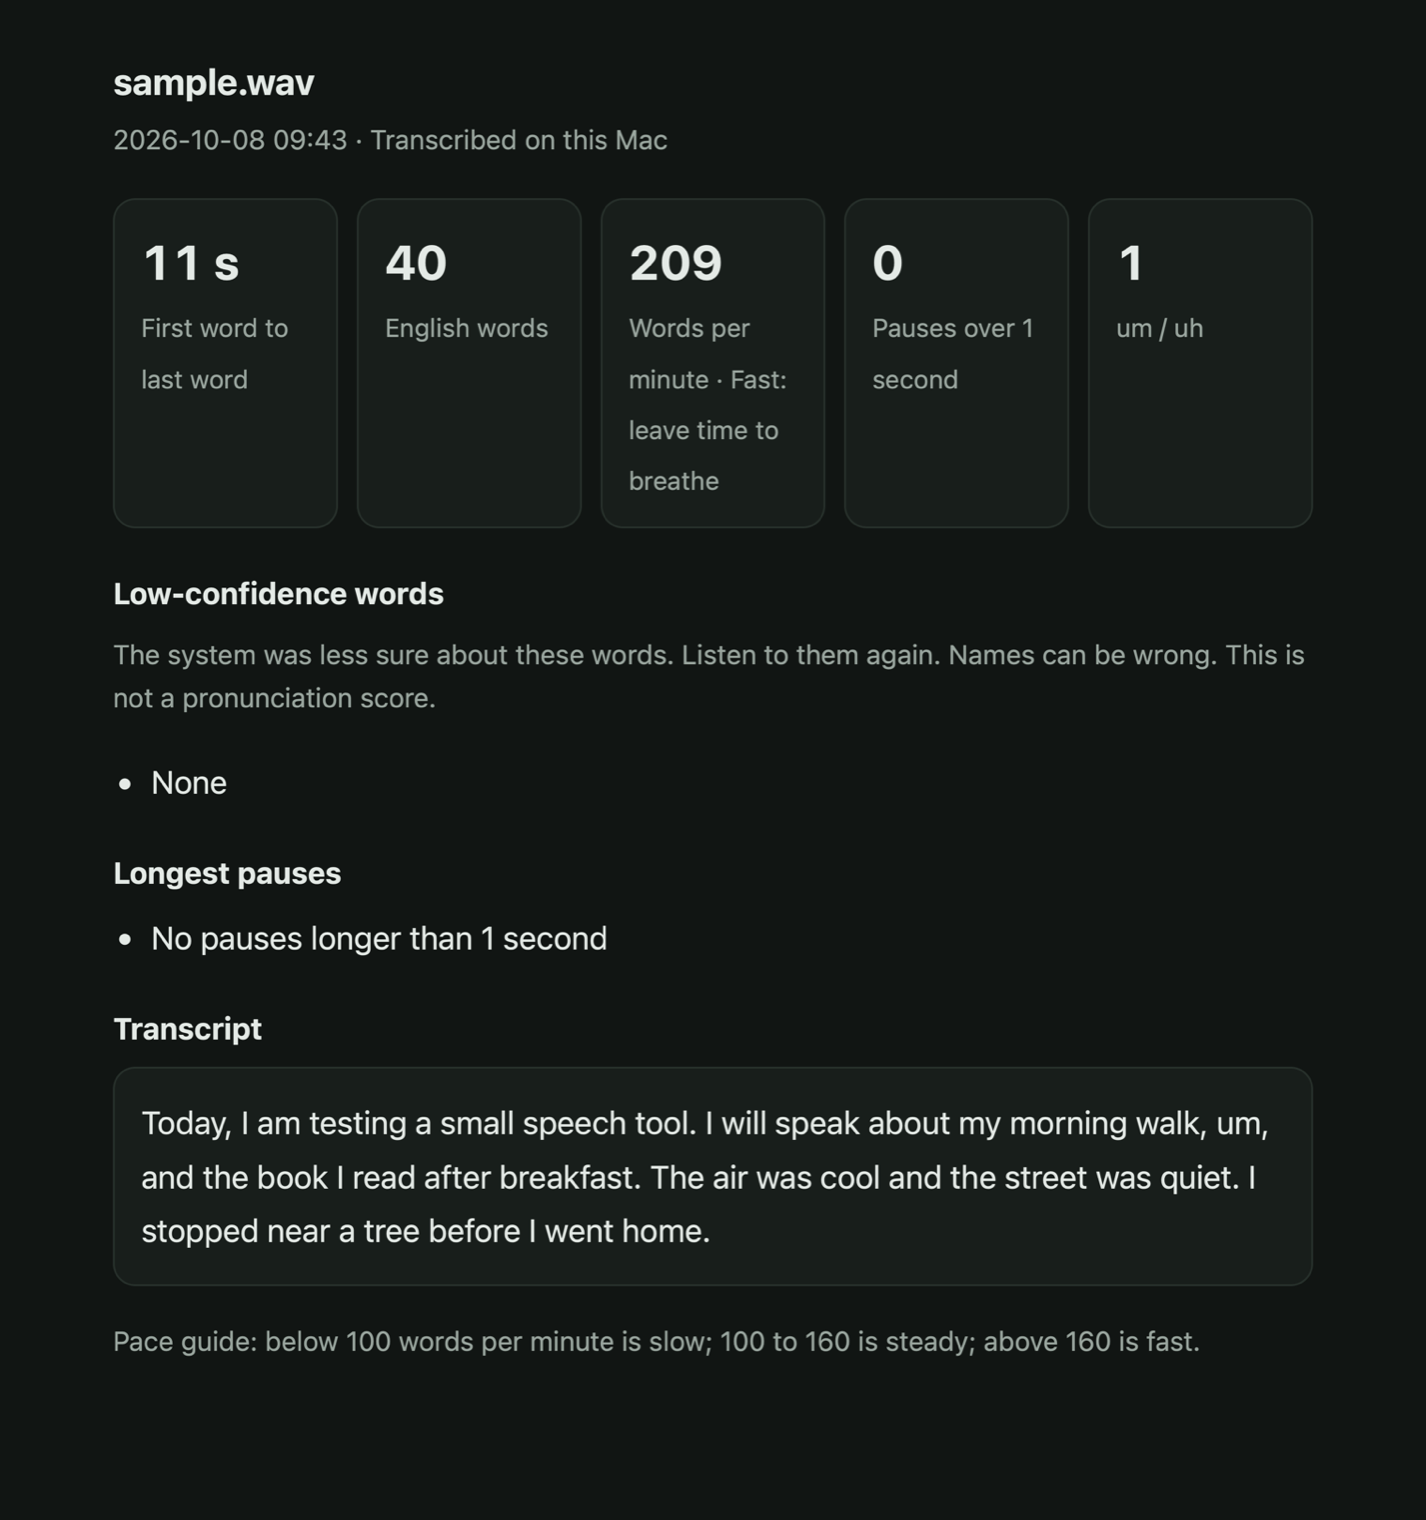
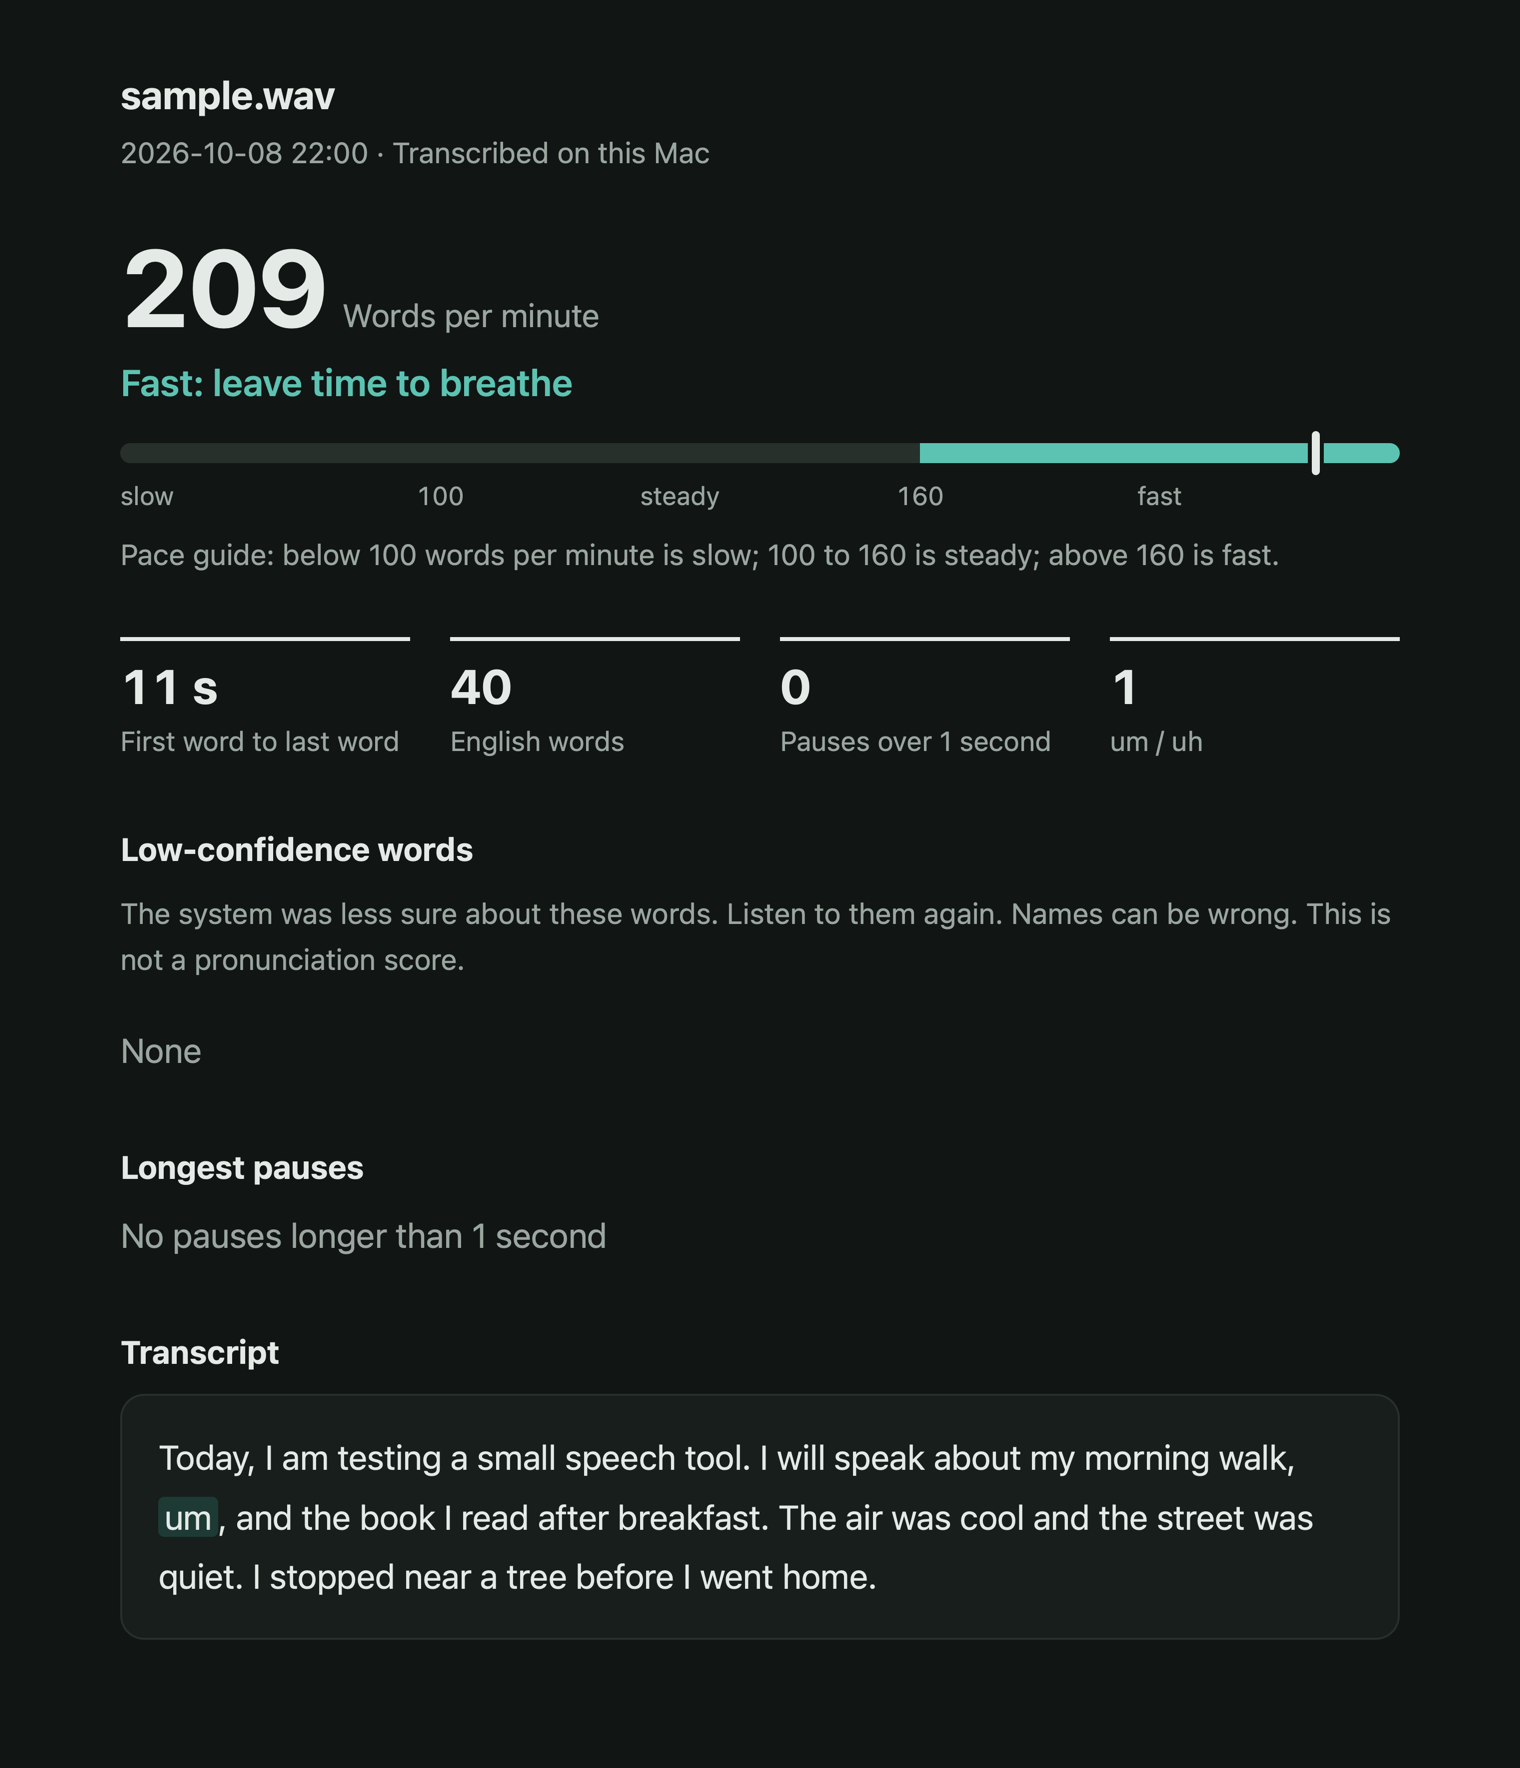
Report page: pace leads with a scale, quieter stats, marked fillers
Words per minute and the pace verdict become the focal point with a
slow/steady/fast scale; the other four numbers sit in a ruled row instead
of identical cards; empty lists read as plain text; um/uh are marked in
the transcript. Screenshots re-rendered from the smoke-test sample.

diff --git a/speakfb.py b/speakfb.py
@@ -61,30 +61,54 @@ def mmss(t):
 
 def report(src, a):
     name = os.path.basename(src)
-    pace = ("Fast: leave time to breathe" if a["wpm"] > 160 else "Steady pace" if a["wpm"] >= 100 else "Slow: try shorter pauses")
-    low = "".join("<li><b>%s</b> <span>%s, confidence %.2f</span></li>" % (html.escape(bare(r[3])), mmss(r[0]), r[2]) for r in a["low"][:12]) or "<li>None</li>"
-    pauses = "".join("<li>At %s: %.1f seconds</li>" % (mmss(t), g) for g, t in a["pauses"][:5]) or "<li>No pauses longer than 1 second</li>"
+    wpm = a["wpm"]
+    zone = "fast" if wpm > 160 else "steady" if wpm >= 100 else "slow"
+    pace = ("Fast: leave time to breathe" if zone == "fast" else "Steady pace" if zone == "steady" else "Slow: try shorter pauses")
+    mark = min(max((wpm - 60) / 160 * 100, 0.5), 99.5)  # scale runs 60 to 220 words per minute
+    low = "".join("<li><b>%s</b> <span>%s, confidence %.2f</span></li>" % (html.escape(bare(r[3])), mmss(r[0]), r[2]) for r in a["low"][:12])
+    low = "<ul>%s</ul>" % low if low else '<p class="none">None</p>'
+    pauses = "".join("<li>At %s: %.1f seconds</li>" % (mmss(t), g) for g, t in a["pauses"][:5])
+    pauses = "<ul>%s</ul>" % pauses if pauses else '<p class="none">No pauses longer than 1 second</p>'
+    text = " ".join(re.sub(r"^(\W*)(.*?)(\W*)$", lambda m: html.escape(m[1]) + "<mark>" + html.escape(m[2]) + "</mark>" + html.escape(m[3]), w)
+                    if bare(w) in FILLERS else html.escape(w) for w in a["text"].split(" "))
     return f"""<!doctype html><html lang="en"><head><meta charset="utf-8"><meta name="viewport" content="width=device-width,initial-scale=1">
 <title>Speech feedback {html.escape(name)}</title><style>
-:root{{--bg:#F6F7F5;--card:#fff;--ink:#1B211D;--muted:#5D6760;--accent:#1F6F66;--line:#DCE1DC}}
-@media (prefers-color-scheme:dark){{:root{{--bg:#111513;--card:#181E1B;--ink:#E4EAE6;--muted:#9AA69F;--accent:#5CC3B2;--line:#27302B}}}}
+:root{{--bg:#F6F7F5;--card:#fff;--ink:#1B211D;--muted:#5D6760;--accent:#1F6F66;--soft:#DCEBE7;--line:#DCE1DC;color-scheme:light dark}}
+@media (prefers-color-scheme:dark){{:root{{--bg:#111513;--card:#181E1B;--ink:#E4EAE6;--muted:#9AA69F;--accent:#5CC3B2;--soft:#1E3A35;--line:#27302B}}}}
 body{{margin:0;background:var(--bg);color:var(--ink);font:17px/1.6 -apple-system,system-ui,sans-serif}}
-main{{max-width:40rem;margin:0 auto;padding:28px 16px 64px}} h1{{font-size:1.2rem;margin:0 0 4px}} .sub{{color:var(--muted);font-size:.9rem;margin:0 0 20px}}
-.nums{{display:grid;grid-template-columns:repeat(auto-fit,minmax(6.5rem,1fr));gap:10px;margin-bottom:22px}}
-.n{{background:var(--card);border:1px solid var(--line);border-radius:12px;padding:12px 14px}} .n b{{display:block;font-size:1.6rem;font-variant-numeric:tabular-nums}} .n span{{color:var(--muted);font-size:.85rem}}
-h2{{font-size:1rem;margin:22px 0 8px}} ul{{margin:0;padding-left:1.2em}} li span{{color:var(--muted);font-size:.9rem}}
-.t{{background:var(--card);border:1px solid var(--line);border-radius:12px;padding:14px;line-height:1.7}}
+::selection{{background:var(--soft);color:var(--ink)}}
+main{{max-width:40rem;margin:0 auto;padding:32px 16px 64px}} h1{{font-size:1.2rem;margin:0 0 2px}} .sub{{color:var(--muted);font-size:.9rem;margin:0 0 20px}}
+.pace{{margin:28px 0 30px}} .wpm{{margin:0;font-size:1rem;color:var(--muted)}}
+.wpm b{{font-size:3.4rem;line-height:1;color:var(--ink);font-weight:700;letter-spacing:-.02em;font-variant-numeric:tabular-nums;margin-right:8px}}
+.verdict{{margin:6px 0 16px;font-size:1.15rem;font-weight:600;color:var(--accent)}}
+.zones{{position:relative;display:grid;grid-template-columns:25% 37.5% 37.5%;height:10px;border-radius:5px;overflow:visible}}
+.zones i{{background:var(--line)}} .zones i:first-child{{border-radius:5px 0 0 5px}} .zones i:nth-child(3){{border-radius:0 5px 5px 0}}
+.zones i.on{{background:var(--accent)}}
+.zones .mk{{position:absolute;top:-6px;width:4px;height:22px;margin-left:-2px;background:var(--ink);border-radius:2px;box-shadow:0 0 0 2px var(--bg)}}
+.ticks{{position:relative;height:1.4em;font-size:.8rem;color:var(--muted);font-variant-numeric:tabular-nums;margin-top:6px}}
+.ticks span{{position:absolute;transform:translateX(-50%)}} .ticks .z{{transform:none}}
+.pace .sub{{margin:10px 0 0}}
+.nums{{display:grid;grid-template-columns:repeat(4,minmax(0,1fr));gap:0 20px;margin:0 0 8px}}
+.nums div{{display:flex;flex-direction:column-reverse;justify-content:flex-end;border-top:2px solid var(--ink);padding-top:8px}}
+.nums dd{{margin:0;font-size:1.5rem;font-weight:700;line-height:1.2;font-variant-numeric:tabular-nums}} .nums dt{{color:var(--muted);font-size:.85rem;line-height:1.35;margin-top:4px}}
+h2{{font-size:1rem;margin:32px 0 8px}} ul{{margin:0;padding-left:1.2em}} li+li{{margin-top:2px}} li span{{color:var(--muted);font-size:.9rem}}
+.none{{margin:0;color:var(--muted)}}
+.t{{background:var(--card);border:1px solid var(--line);border-radius:12px;padding:16px 18px;line-height:1.75}}
+mark{{background:var(--soft);color:var(--ink);border-radius:3px;padding:0 3px}}
+@media (max-width:520px){{.nums{{grid-template-columns:repeat(2,minmax(0,1fr));gap:16px 20px}} .wpm b{{font-size:2.8rem}}}}
 </style></head><body><main>
 <h1>{html.escape(name)}</h1><p class="sub">{datetime.datetime.now():%Y-%m-%d %H:%M} · Transcribed on this Mac</p>
-<div class="nums"><div class="n"><b>{a['span']:.0f} s</b><span>First word to last word</span></div>
-<div class="n"><b>{a['words']}</b><span>English words</span></div>
-<div class="n"><b>{a['wpm']:.0f}</b><span>Words per minute · {pace}</span></div>
-<div class="n"><b>{len(a['pauses'])}</b><span>Pauses over 1 second</span></div>
-<div class="n"><b>{a['fillers']}</b><span>um / uh</span></div></div>
-<h2>Low-confidence words</h2><p class="sub">The system was less sure about these words. Listen to them again. Names can be wrong. This is not a pronunciation score.</p><ul>{low}</ul>
-<h2>Longest pauses</h2><ul>{pauses}</ul>
-<h2>Transcript</h2><div class="t">{html.escape(a['text'])}</div>
-<p class="sub" style="margin-top:18px">Pace guide: below 100 words per minute is slow; 100 to 160 is steady; above 160 is fast.</p>
+<section class="pace"><p class="wpm"><b>{wpm:.0f}</b>Words per minute</p><p class="verdict">{pace}</p>
+<div role="img" aria-label="Pace scale: {wpm:.0f} words per minute is in the {zone} zone"><div class="zones"><i{' class="on"' if zone == "slow" else ''}></i><i{' class="on"' if zone == "steady" else ''}></i><i{' class="on"' if zone == "fast" else ''}></i><span class="mk" style="left:{mark:.1f}%"></span></div>
+<div class="ticks" aria-hidden="true"><span class="z" style="left:0">slow</span><span style="left:25%">100</span><span style="left:43.75%">steady</span><span style="left:62.5%">160</span><span style="left:81.25%">fast</span></div></div>
+<p class="sub">Pace guide: below 100 words per minute is slow; 100 to 160 is steady; above 160 is fast.</p></section>
+<dl class="nums"><div><dt>First word to last word</dt><dd>{a['span']:.0f} s</dd></div>
+<div><dt>English words</dt><dd>{a['words']}</dd></div>
+<div><dt>Pauses over 1 second</dt><dd>{len(a['pauses'])}</dd></div>
+<div><dt>um / uh</dt><dd>{a['fillers']}</dd></div></dl>
+<h2>Low-confidence words</h2><p class="sub">The system was less sure about these words. Listen to them again. Names can be wrong. This is not a pronunciation score.</p>{low}
+<h2>Longest pauses</h2>{pauses}
+<h2>Transcript</h2><div class="t">{text}</div>
 </main></body></html>"""
 
 
